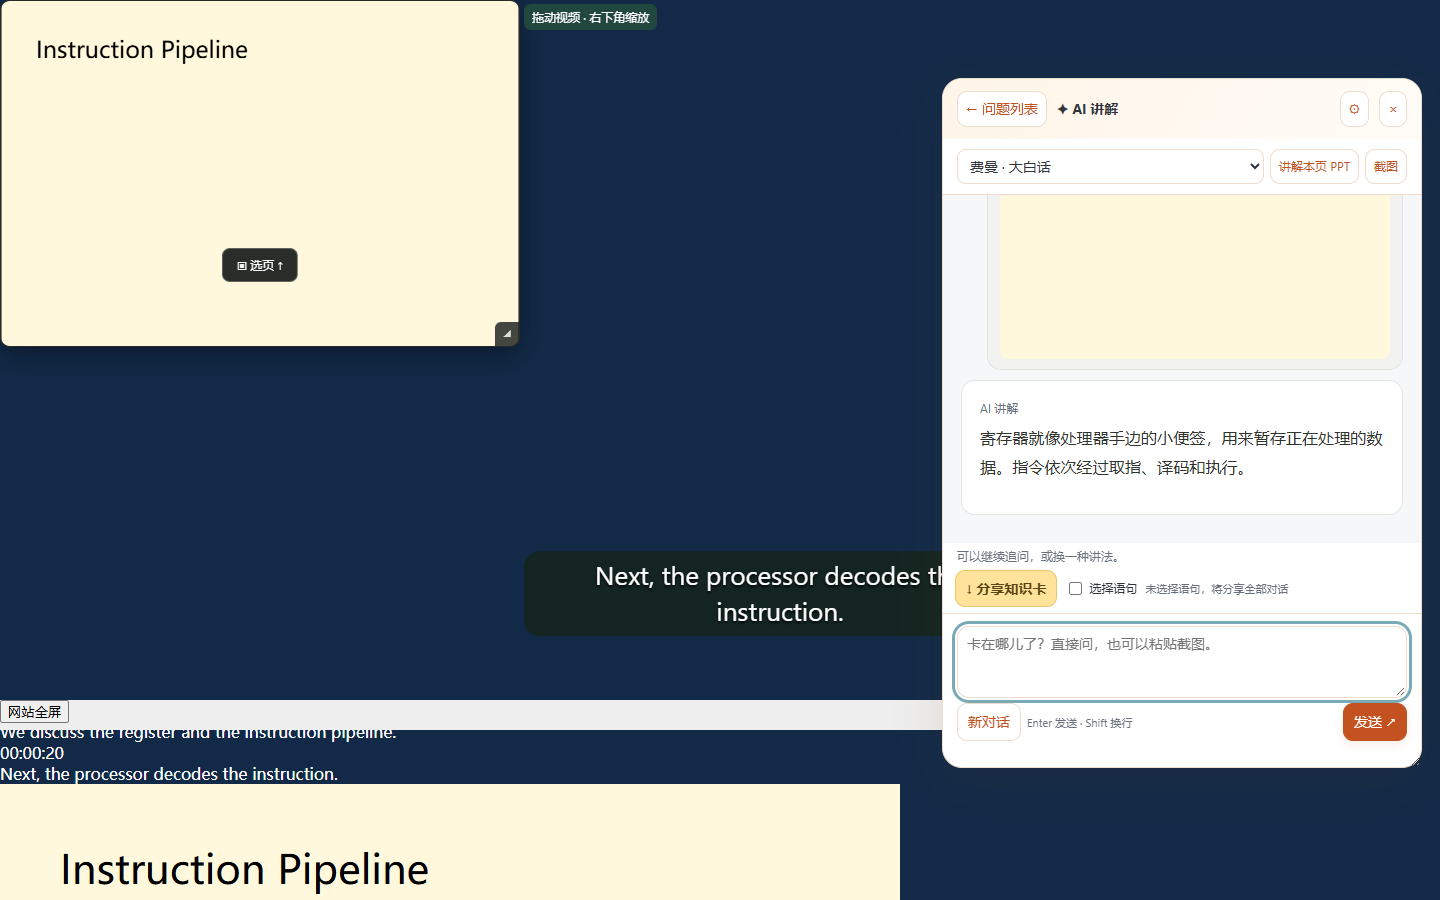
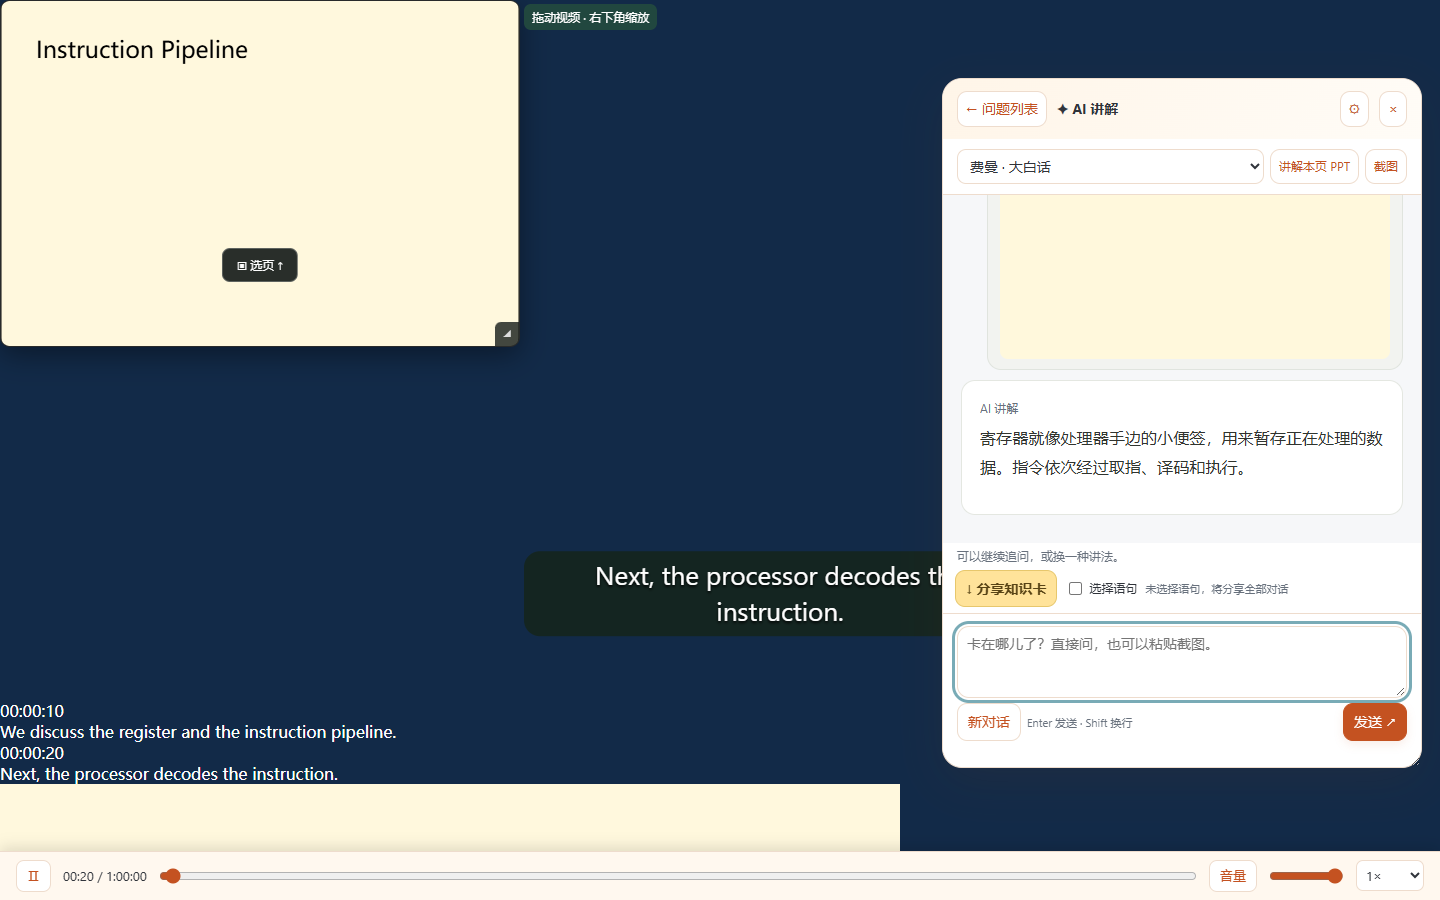
Publish userscript v0.20.31 and record verified deployment

Changed region(s): [[0.625, 0.9333, 1.0, 1.0], [0.0, 0.7778, 0.6562, 0.8089], [0.0, 0.9333, 0.3125, 0.9956]]

diff --git a/README.md b/README.md
@@ -14,9 +14,17 @@
 
 **0.20.30 已上线**：普通网页入口改为「问此页（自动截图）｜AI 对话｜☰ 历史」紧凑胶囊，合并重复的继续对话按钮；完整备用安装文件为 `zhiyun-subtitles.user.js`。
 
+### 2026-10-12 发布核验
+
+- **版本**：0.20.31。
+- **原因**：GitHub 已有最新修复源码，公网油猴仍为 0.20.30，需要补齐线上发布并同步交付记录。
+- **行为变化**：更新后使用统一外置播放条、改进的 PPT 快速选页与同步面板，以及可暂停跟随的 AI 回复阅读。
+- **验证结果**：重新构建；67 项单元测试、安装元数据校验、全屏播放条、AI 流式滚动、PPT 缩略图、PPT 独立校准、播放快捷键和真实缓存切换回归通过；公网脚本与元数据逐字节匹配本地构建，服务健康检查通过。
+- **实际发布状态**：油猴 0.20.31 已上线，旧版完整脚本与元数据已备份；回执见 `backend/acceptance-0.20.31.json`。本次发布记录随代码同步到 GitHub；Chrome / Edge 商店扩展需独立提交。
+
 ## 0.20.31 修改记录（2026-10-11）
 
-本次完整修复版为 **0.20.31**；公网安装端点最后核对为 **0.20.30**，此次修复尚未发布到该端点。切勿把 GitHub 源码版本当作服务器已上线版本。另一台电脑可以拉取 `main` 后，将仓库根目录完整的 `zhiyun-subtitles.user.js` 导入油猴；不必点击服务器页面的更新按钮。
+本次完整修复版 **0.20.31 已于 2026-10-12 发布到公网安装端点**，完整脚本和更新元数据均与本地构建逐字节一致。直接点击上方安装 / 更新链接即可更新，不必点击服务器页面的更新按钮。仓库根目录完整的 `zhiyun-subtitles.user.js` 可作为备用安装文件。
 
 - **播放进度条统一**：智云 CMC 控制条是网站自绘控件，浏览器原生视频控件绑定在 `<video>` 内部。旧代码在缓存播放、拖动视频或“主看 PPT”布局中切换两套控件，导致外部控制条消失、内部进度条出现。现在在线与缓存均使用固定在视口底边的唯一外置播放条，使用浏览器原生范围输入框；原站控制条和视频内部控件统一关闭。它提供播放 / 暂停、时间、拖动跳转、音量、静音与倍速，拖动视频（包括暂时拖出视口）、切换 PPT 布局、全屏和返回在线均保持一致。
 - **PPT 快速选页**：抽屉按内容高度向上展开，不再预留大块同步设置空间。横版、竖版、超宽页面均按原图比例确定缩略图尺寸，文字超出时省略；选页和跟随老师仍不跳转视频。
@@ -49,12 +57,12 @@
 
 1. 在 Edge 或 Chrome 中安装并启用 Tampermonkey，在浏览器扩展设置中允许用户脚本运行。
 2. 点击上面的安装链接，按油猴提示安装。旧用户请核对更新后只启用一份脚本，避免旧名称脚本同时运行。
-3. 刷新智云课堂回放，打开网站右侧“语音识别”以加载字幕。油猴脚本版本应为 **0.20.30**。
+3. 刷新智云课堂回放，打开网站右侧“语音识别”以加载字幕。油猴脚本版本应为 **0.20.31**。
 4. 字幕、PPT、语音同步和缓存无需登录；中外字幕对照和 AI 讲解需要在右上角账号页登录，账号目前人工开通。
 
 脚本包含 `@updateURL` / `@downloadURL`：油猴读取轻量的 `.meta.js` 检查版本，再下载完整 `.user.js`。首次安装后按照油猴自己的检查周期更新，也可以在油猴管理面板手动检查。详见 [Tampermonkey 官方说明](https://www.tampermonkey.net/documentation.php?locale=zh_&q=update_url)。
 
-最新油猴已上线 **0.20.30**，完整脚本及更新元数据已通过公网一致性检查。
+最新油猴已上线 **0.20.31**，完整脚本及更新元数据已通过公网一致性检查。
 
 本次更新包含收起标签、全屏并排对齐、全屏字幕持续显示、缓存切换、PPT 缩略图、PPT 独立时间校准和关闭后恢复跟随老师。Chrome / Edge 商店扩展仍需独立打包和提交，不随油猴更新自动发布。
 

diff --git a/CHANGELOG.md b/CHANGELOG.md
@@ -1,4 +1,7 @@
-## 0.20.31（本地完整构建；公网端点尚为 0.20.30）
+## 0.20.31（油猴已上线，2026-10-12）
+
+- 补齐最新源码的线上发布：旧版完整脚本与更新元数据已备份，公网文件与本地构建逐字节一致，服务健康检查通过。
+- 重新构建并通过 67 项单元测试、安装包元数据和播放 / 缓存切换、全屏、PPT 同步、AI 滚动专项回归；README 更新版本、原因、行为变化、验证结果及实际发布状态。
 
 - 在线、缓存、拖动视频和 PPT 三种布局统一使用底部外置播放条，关闭原站与视频内部重复控件。
 - 快速选页抽屉按内容高度和原图比例适配；仅加载可视区域附近缩略图，切课清理旧资源。
